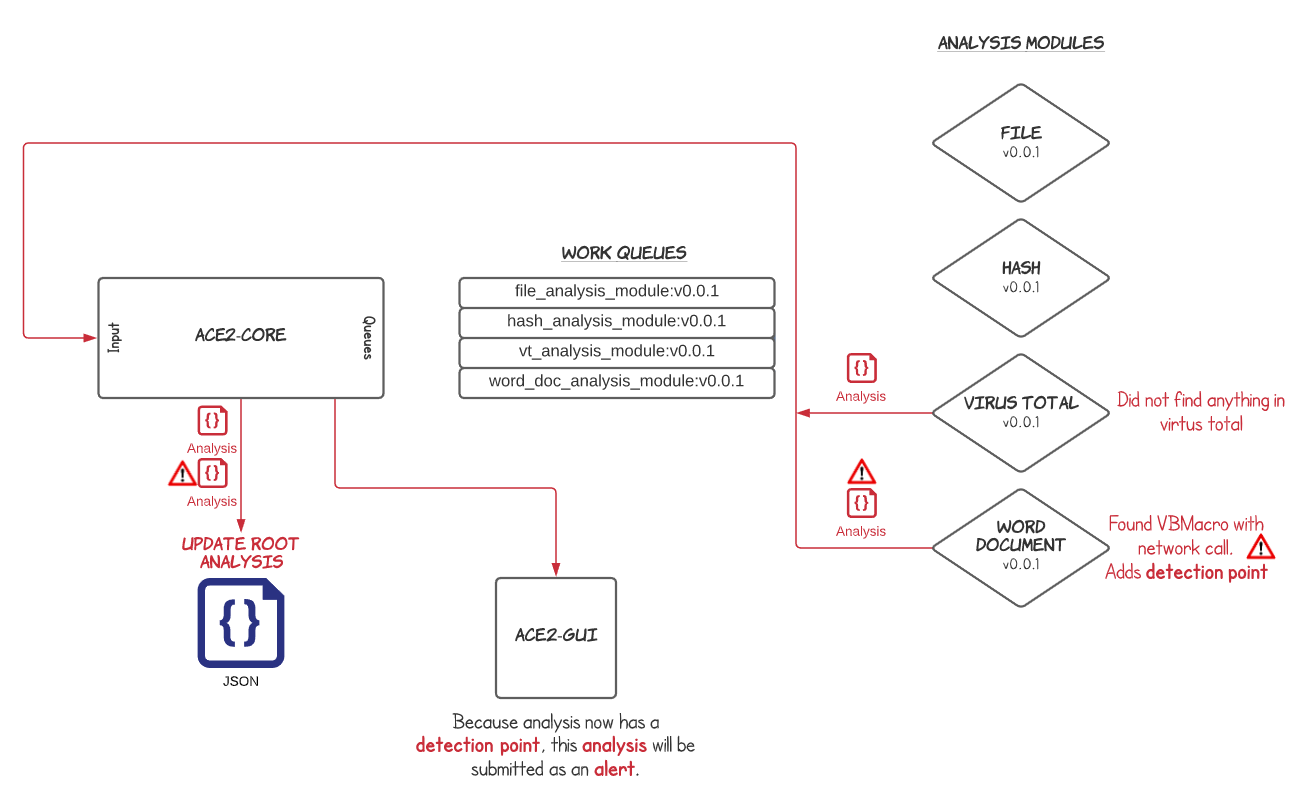
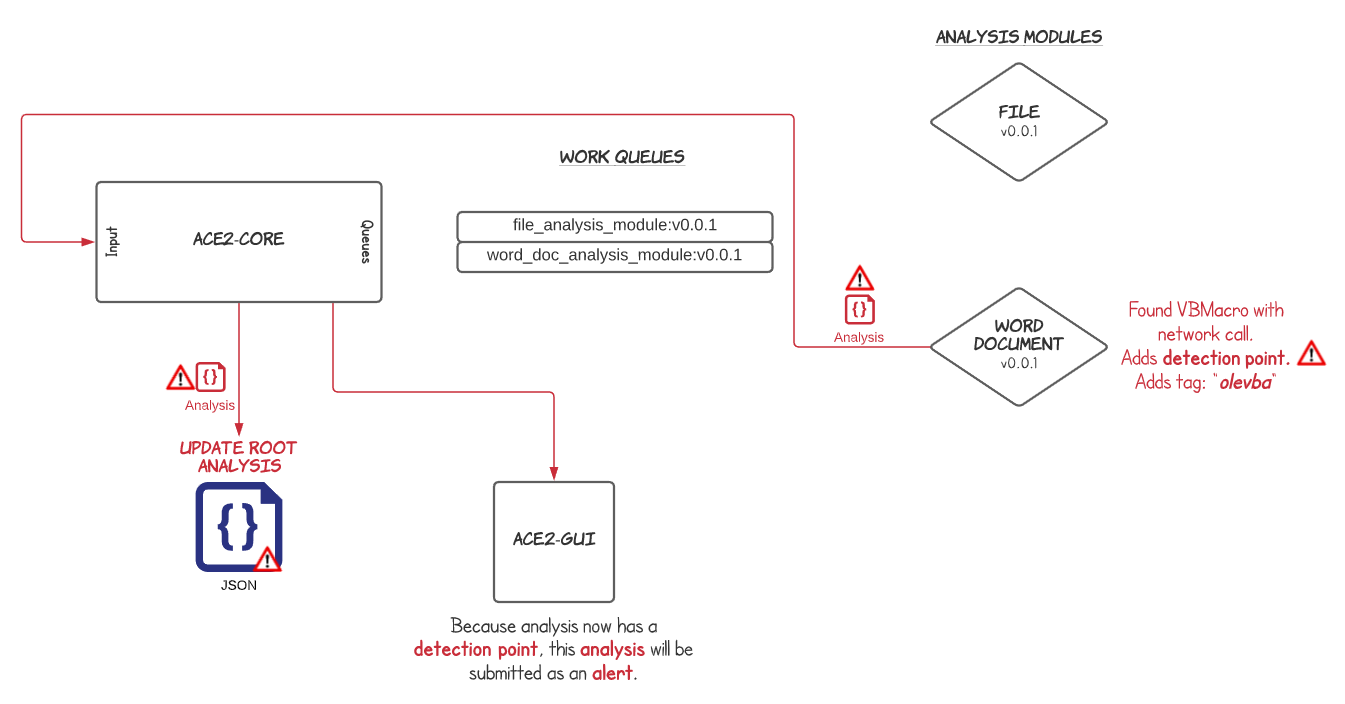
adjusted example flow document/diagrams

diff --git a/documentation/docs/design/example_flow.md b/documentation/docs/design/example_flow.md
@@ -1,6 +1,6 @@
 # Example Flow
 
-Let's follow a simple example to show how an [alert](../design/alerts.md) can be generated by being analyzed by ace.
+Let's follow a simple example to show how an [alert](../design/alerts.md) gets created by ACE.
 
 In this example we register analysis modules specifically to look for malicious word documents.
 Then we assume a sensor submits a word document for analysis.
@@ -10,19 +10,15 @@ Then we assume a sensor submits a word document for analysis.
 [Analysis modules](../design/analysis_module.md) process [observables](../design/observable.md) to see if an
 [alert](../design/alerts.md) should be created.
 
-In this example we register four analysis modules:
+In this example we register two analysis modules:
 
 - **File Type** analysis module
     - Accepts "_file_" observable types and outputs the type of file. For example: PDF, Word Document,
       Email, etc.
-- **File Hash** analysis module
-    - Accepts "_file_" observable types and outputs the hash of the file.
-- **Virus Total** analysis module
-    - Accepts "_sha256_hash_" observable types and outputs if the file has been identified as malicious or not.
-    - May also add observables like file names, etc.
+    - Adds tags like "_word_doc_", "_pdf_", "_email_", etc. depending on the file type analysis result.
 - **Word Document** analysis module
     - Accepts "_file_" observables and outputs if the word doc is malicious. This module depends on the File Type module to determine if a file is malicious or not.
-    - May also add observables like URLs from within the document, screenshots of the document content, etc.
+    - May also add more observables like URLs from within the document, screenshots of the document content, etc.
 
 ![Analysis Module Registration](../../material/assets/images/ace2-core-example-flow-register.png)
 
@@ -38,31 +34,33 @@ A sensor submits a [root analysis](../design/root_analysis.md) which contains an
 
 Ace keeps track of the root analysis and add analysis module results throughout the lifetime of the root analysis.
 
-Ace then creates _observable analysis requests_ for each observable within the root analysis and places them in the appropriate queue(s) for analysis modules that accept "_file_" observable types. In this case, we only have one observable.
+Ace then creates _observable analysis requests_ for each observable within the root analysis and places them in the 
+appropriate queue(s) for analysis modules that accept "_file_" observable types. In this case, we only have one observable.
 
 ![Root Analysis And Observable Submission](../../material/assets/images/ace2-core-example-flow-sensor-input.png)
 
 ## Handling Analysis Module Results
 
-The File Type and File Hash analysis modules receives the analysis request through the queues and then post their analysis results back to ace. These results
- may include things like [tags](../design/tags.md), [directives](../design/directives.md), 
+The File Type modules receives the analysis request through its queue and then posts analysis results back to ACE. These results 
+may include things like [tags](../design/tags.md), [directives](../design/directives.md), 
 [detection points](../design/detection_points.md), more observables, etc.
 
-Ace adds the analysis results to the root analysis, and then places any additional observables discovered by the analysis
-modules into the appropriate queue(s) for further analysis.
+ACE adds the analysis result to the root analysis, and then places any additional observables discovered by the analysis
+module into the appropriate queue(s) for further analysis.
 
 ![Analysis Results](../../material/assets/images/ace2-core-example-flow-analysis-results.png)
 
 ## An Alert Is Born
-
-After this round of analysis Virus Total does not show any results related to the "_sha256_hash_" observable type.
-However, the word document found a Visual Basic macro that contained a function known to make network calls. This
+The word document analysis module found a Visual Basic macro that contained a function known to make network calls. This
 is suspicious and worth being presented to a security analyst.
 
 The Word Document analysis module adds a detection point to note that it has detected something that should be
-manually reviewed by an analyst.
+manually reviewed by an analyst. The analysis module also adds a tag ("_olevba_"), which will be presented to the 
+analyst on an alert page in the GUI. This tag will give the analyst an immediate sense of what they're looking at or
+looking for.
 
-Once the analysis is submitted back to ace, ace adds the analysis to the root analysis object. Ace sees there is ia detection point and will submit the root analysis as an alert.
+Once the analysis is submitted back to ACE, ACE adds the analysis to the root analysis object. ACE sees there is a 
+detection point and will submit the root analysis as an alert for analyst review.
 
 ![An Alert Is Born](../../material/assets/images/ace2-core-example-flow-create-alert.png)
 
